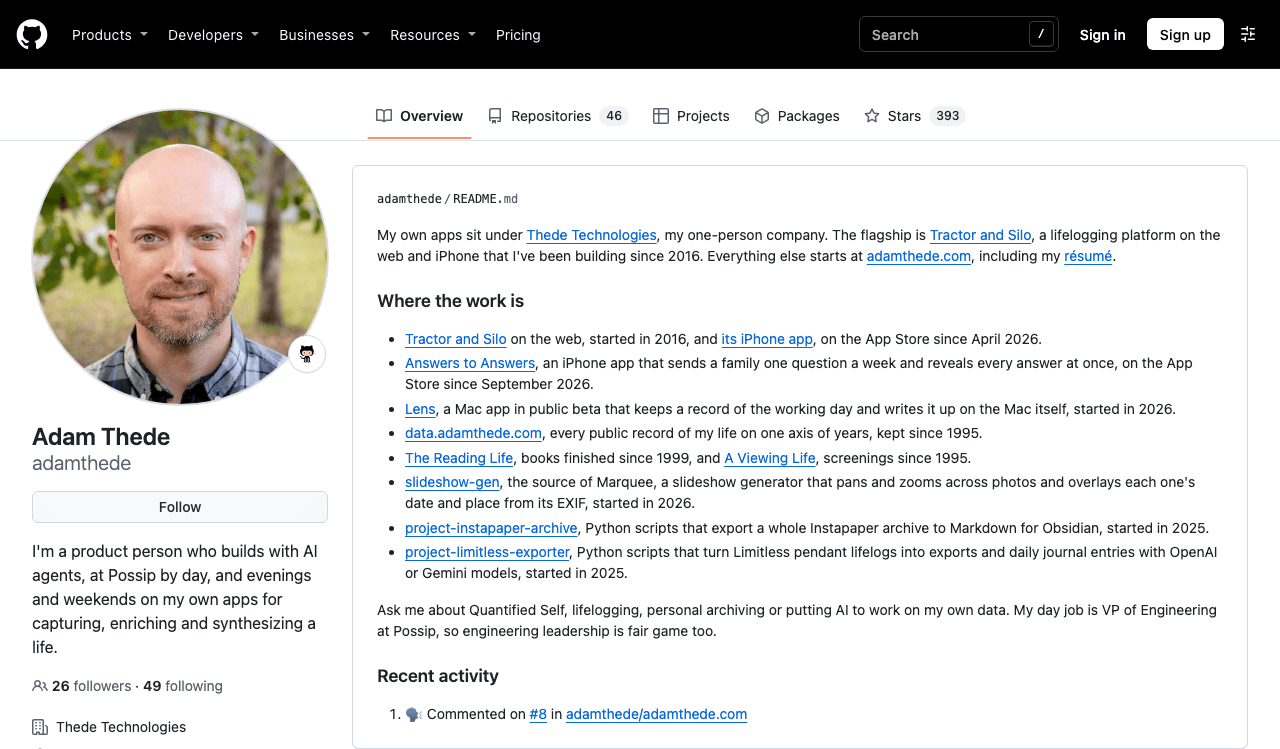
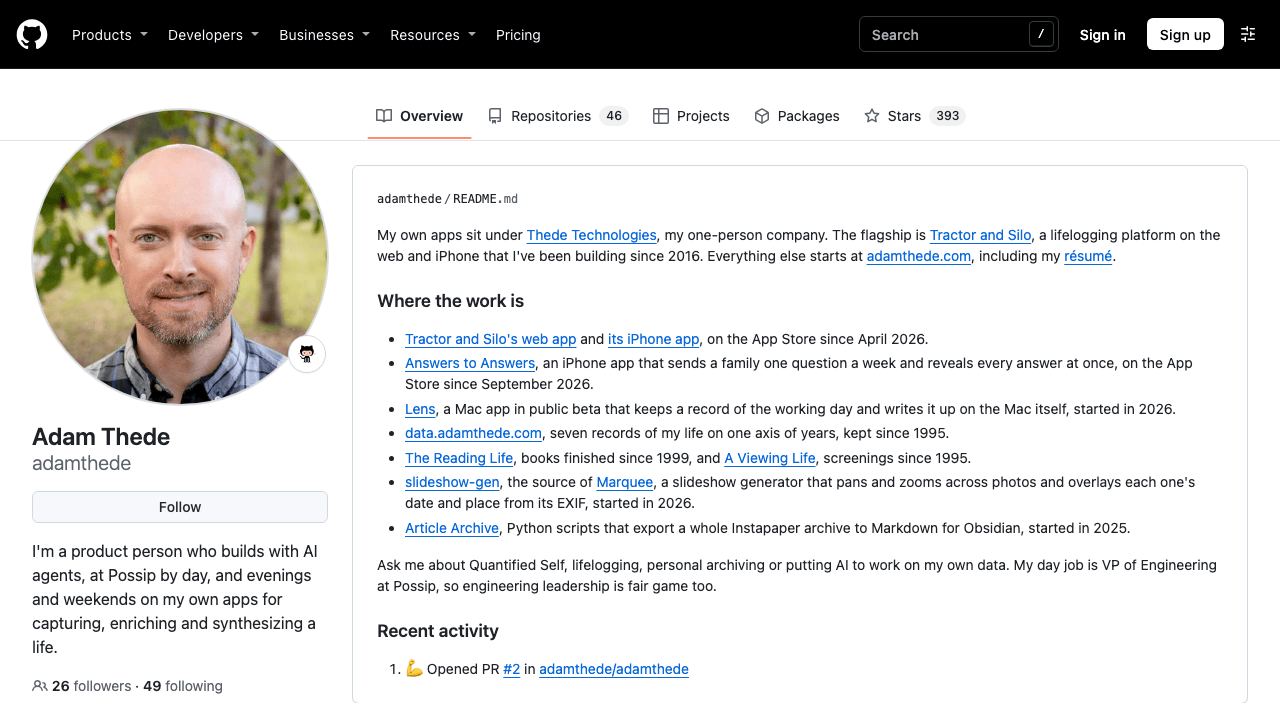
docs(qa): re-shoot the where-the-work-is profile at seven entries
Claude-Session: https://claude.ai/code/session_01QUKHas7AYz7h3fzc1kVgau

diff --git a/docs/qa/2026-11-02-readme-one-identity/pr-2/README.md b/docs/qa/2026-11-02-readme-one-identity/pr-2/README.md
@@ -2,12 +2,14 @@
 
 Captured 2026-11-02 with Playwright (Chromium headless shell 1248) and compressed with pngquant.
 
-## After state, at PR head 30be0f0
+## After state, at PR head a57968f
 
-Each shot is the live github.com/adamthede profile, in the light theme, with the README article's contents replaced by GitHub's own markdown-API render (gfm mode, adamthede/adamthede context) of the README that merging this PR into main produces. That merge is computed with `git merge-tree --write-tree origin/main 30be0f0` against main at c39b8f1, so the activity entry is main's current one. Nothing else on the page was changed, so the sidebar, bio and pinned repos are live.
+Each shot is the live github.com/adamthede profile, in the light theme, with the README article's contents replaced by GitHub's own markdown-API render (gfm mode, adamthede/adamthede context) of the README that merging this PR into main produces. That merge is computed with `git merge-tree --write-tree origin/main a57968f` against main at 81ad993, so the activity entry is main's current one. Nothing else on the page was changed, so the sidebar, bio and pinned repos are live.
 
-- after-profile-desktop-1280.png: 1280 px viewport, from the top of the page to the end of the README. The new list sits between the opening paragraph and "Ask me about", and the streak card is gone.
-- after-profile-phone-390.png: 390 px viewport at 2x, from the top of the page to the end of the README. The eight entries wrap without horizontal scroll.
+- after-profile-desktop-1280.png: 1280 px viewport, from the top of the page to the end of the README. The seven-entry list sits between the opening paragraph and "Ask me about", and the streak card is gone.
+- after-profile-phone-390.png: 390 px viewport at 2x, from the top of the page to the end of the README. The seven entries wrap without horizontal scroll.
+
+These replace the first shots, taken at head 30be0f0 with eight entries, which stay reachable at commit a457a0137459a165c1ca4b8cacf57cf54ae5234c.
 
 Before shots of the same README, minus this section and with the streak card, are in ../pr-1/.
 
